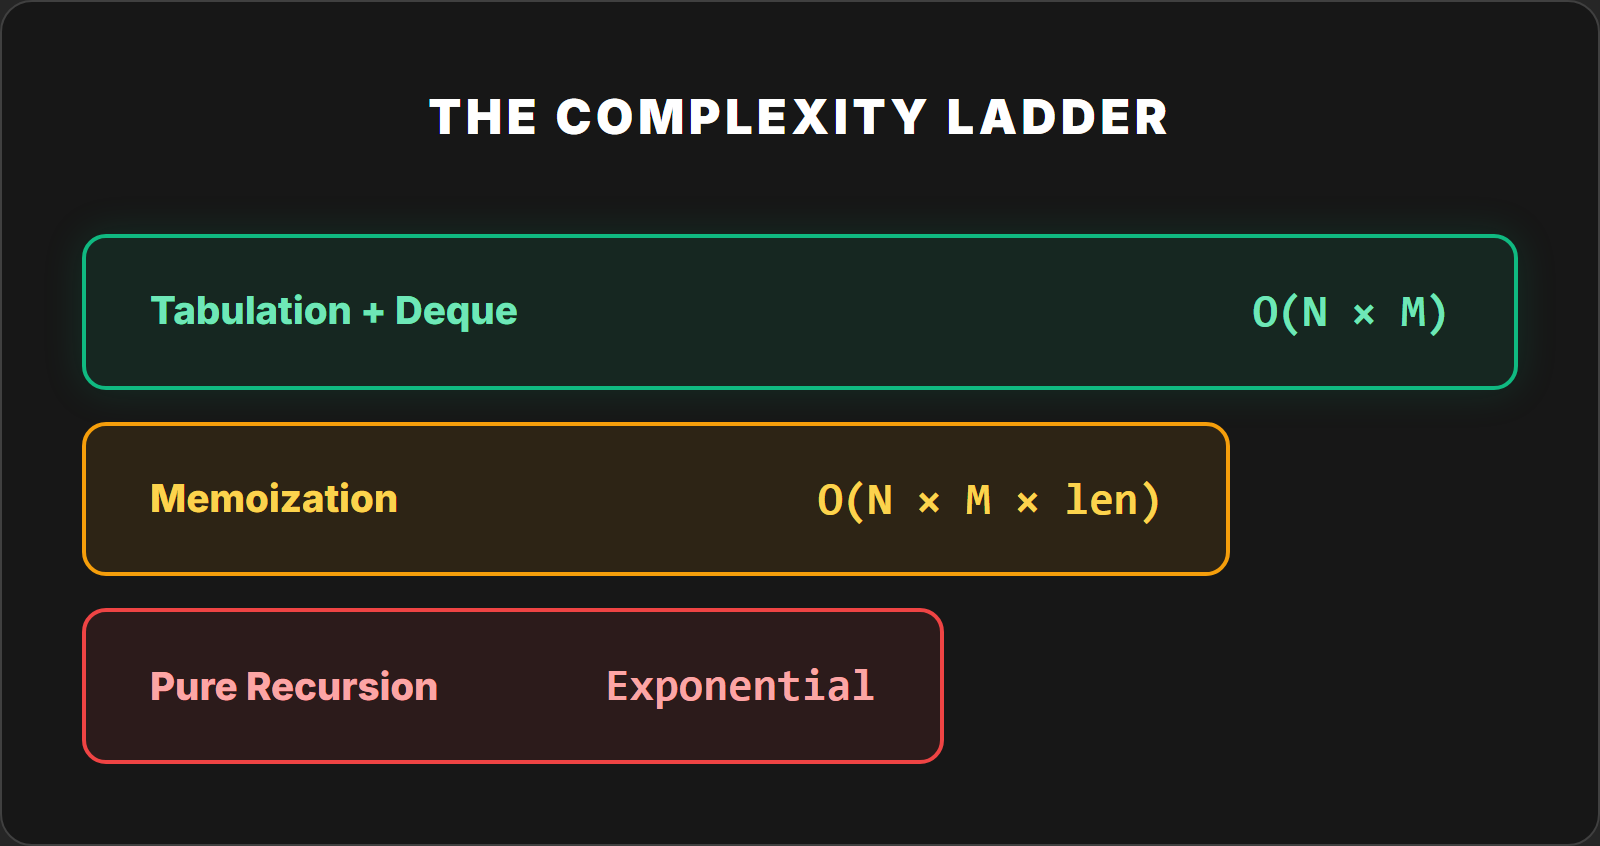
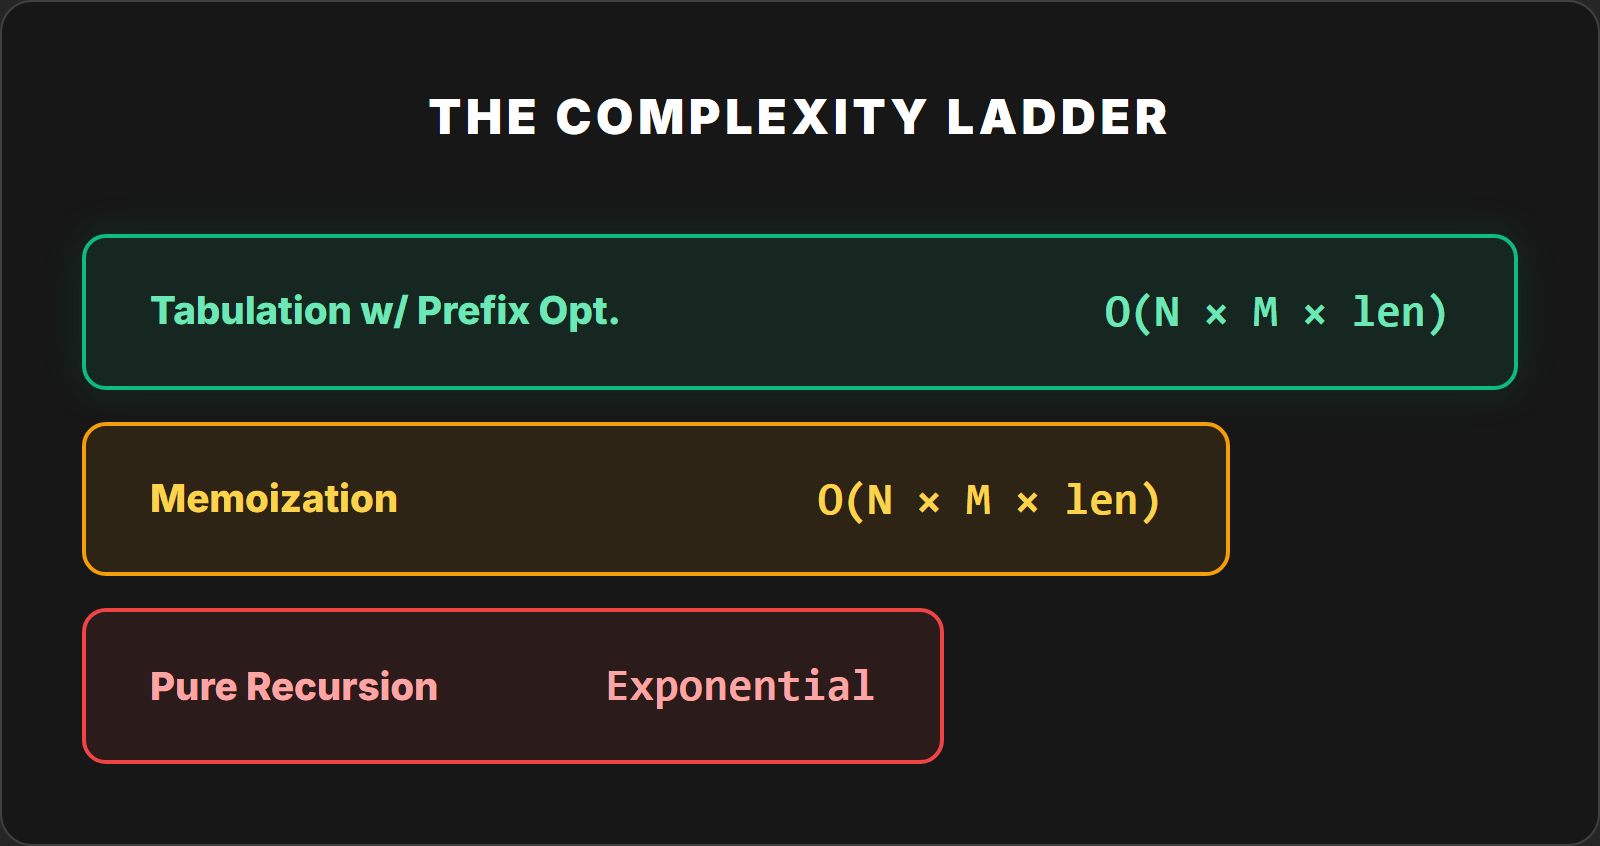
Update Frame 5 to remove Deque optimization

Changed region(s): [[0.6875, 0.3381, 0.9062, 0.3995], [0.2188, 0.3381, 0.375, 0.3995]]

diff --git a/maximum-sum-m-subarrays/frame_5.html b/maximum-sum-m-subarrays/frame_5.html
@@ -30,8 +30,8 @@
         
         <div class="ladder">
             <div class="step s3">
-                <div class="step-name">Tabulation + Deque</div>
-                <div class="step-comp">O(N × M)</div>
+                <div class="step-name">Tabulation w/ Prefix Opt.</div>
+                <div class="step-comp">O(N × M × len)</div>
             </div>
             
             <div class="step s2">
